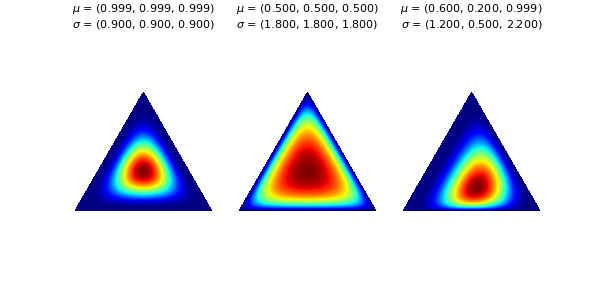
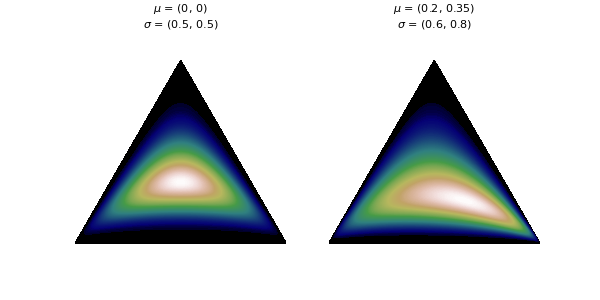
Updates/fixes to Logit-Normal viz

diff --git a/visualization/logitnorm.py b/visualization/logitnorm.py
@@ -41,20 +41,26 @@ class LogitNormal(object):
         '''Returns pdf value for `x`.'''
         epsilon = 1e-5
         x = np.clip(x, epsilon, 1 - epsilon)
-        logit_x = np.log(x / (1 - x))  # transforming to logit space
-        norm_const = np.prod(1 / (x * (1 - x)))
+        x_D = x[-1] # last element of x
+        x_without_D = x[:-1] # first D-1 elements of x
+        logit_x = np.log(x_without_D / x_D)  # transforming to logit space
+        norm_const = 1 / np.prod(x)  # Jacobian determinant
+        # multivariate normal pdf
         pdf_val = norm_const * multivariate_normal.pdf(logit_x, mean=self._mu, cov=self._sigma)
         return pdf_val
+
 
     def sample(self, N):
         '''Generates a random sample of size `N`.'''
         sample_norm = np.random.multivariate_normal(self._mu, self._sigma, N)
-        sample_logit = scipy.special.expit(sample_norm)
-        # normalize to make the samples sum to 1
-        sample_logit /= np.sum(sample_logit, axis=1, keepdims=True)
+        exp_y = np.exp(sample_norm)
+        ones_column = np.ones((N, 1))  # Create a column of ones
+        exp_y = np.hstack((exp_y, ones_column))  # Append a column of ones to exp_y
+        sample_logit = exp_y / (1 + np.sum(exp_y, axis=1, keepdims=True))
         return sample_logit
 
-def draw_pdf_contours(dist, border=False, nlevels=400, subdiv=8, **kwargs):
+
+def draw_pdf_contours(dist, border=False, nlevels=600, subdiv=8, **kwargs):
     '''Draws pdf contours over an equilateral triangle (2-simplex).
 
     Arguments:
@@ -76,7 +82,7 @@ def draw_pdf_contours(dist, border=False, nlevels=400, subdiv=8, **kwargs):
     trimesh = refiner.refine_triangulation(subdiv=subdiv)
     pvals = [dist.pdf(xy2bc(xy)) for xy in zip(trimesh.x, trimesh.y)]
 
-    plt.tricontourf(trimesh, pvals, nlevels, cmap='jet', **kwargs)
+    plt.tricontourf(trimesh, pvals, nlevels, cmap='gist_earth', **kwargs)
     plt.axis('equal')
     plt.xlim(0, 1)
     plt.ylim(0, 0.75**0.5)
@@ -110,17 +116,15 @@ def plot_points(X, barycentric=True, border=True, **kwargs):
 
 if __name__ == '__main__':
     f = plt.figure(figsize=(6, 3))
-    mus = [[0.999] * 3,
-           [0.5] * 3,
-           [0.6, 0.2, 0.999]]
-    sigmas = [[0.9] * 3,
-              [1.8] * 3,
-              [1.2, 0.5, 2.2]]
+    mus = [[0, 0],
+           [0.2, 0.35]]
+    sigmas = [[0.5, 0.5],
+              [0.6, 0.8]]
     for i, (mu, sigma) in enumerate(zip(mus, sigmas)):
         plt.subplot(1, len(mus), i + 1)
         dist = LogitNormal(mu, sigma)
         draw_pdf_contours(dist)
-        title = '$\mu$ = (%.3f, %.3f, %.3f)\n$\sigma$ = (%.3f, %.3f, %.3f)' % (tuple(mu) + tuple(sigma))
+        title = f'$\mu$ = {tuple(mu)}\n$\sigma$ = {tuple(sigma)}'
         plt.title(title, fontdict={'fontsize': 8})
         # plt.subplot(2, len(mus), i + 1 + len(mus))
         # plot_points(dist.sample(5000))

diff --git a/visualization/process_plot.py b/visualization/process_plot.py
@@ -34,7 +34,7 @@ import seaborn as sns
 
 # Set the theme to whitegrid and customize the style
 sns.set_style("whitegrid")
-sns.set_context("notebook", font_scale=1.8, rc={"lines.linewidth": 2})
+sns.set_context("notebook", font_scale=1.3, rc={"lines.linewidth": 2})
 
 colors = ["#FF9B85", "#73A88C", "#6991CF"]
 # Set the font to be LaTeX-like
@@ -48,7 +48,7 @@ def logistic(y):
 y_values = np.linspace(-7, 7, 1000000)  # Generate more evenly spaced points
 x_values = logistic(y_values)  # Transform the y values into the interval (0, 1)
 
-plt.figure(figsize=(8, 8))
+plt.figure(figsize=(6, 6))
 
 plt.plot(x_values, p(x_values), color=colors[0], label="$p(x)$")
 plt.plot(x_values, d(x_values), color=colors[1], label=r"$\nabla\log p(x)$")
@@ -60,7 +60,9 @@ plt.axvline(x=0.6, linestyle='--', color='black', linewidth=1.5)
 plt.ylim(-2, 10)  # Limit the range of the y-axis
 
 plt.grid(True)  # Add grid lines
-plt.legend(loc="best")
+# plt.legend(loc="best")
+# Add legend to top left
+plt.legend(loc=2, bbox_to_anchor=(0.02, 0.99), borderaxespad=0., prop={'size': 16})
 plt.xlabel("x")
 sns.despine()  # Remove the top and right spines
 plt.tight_layout()  # Make the plot fill out the figure area
